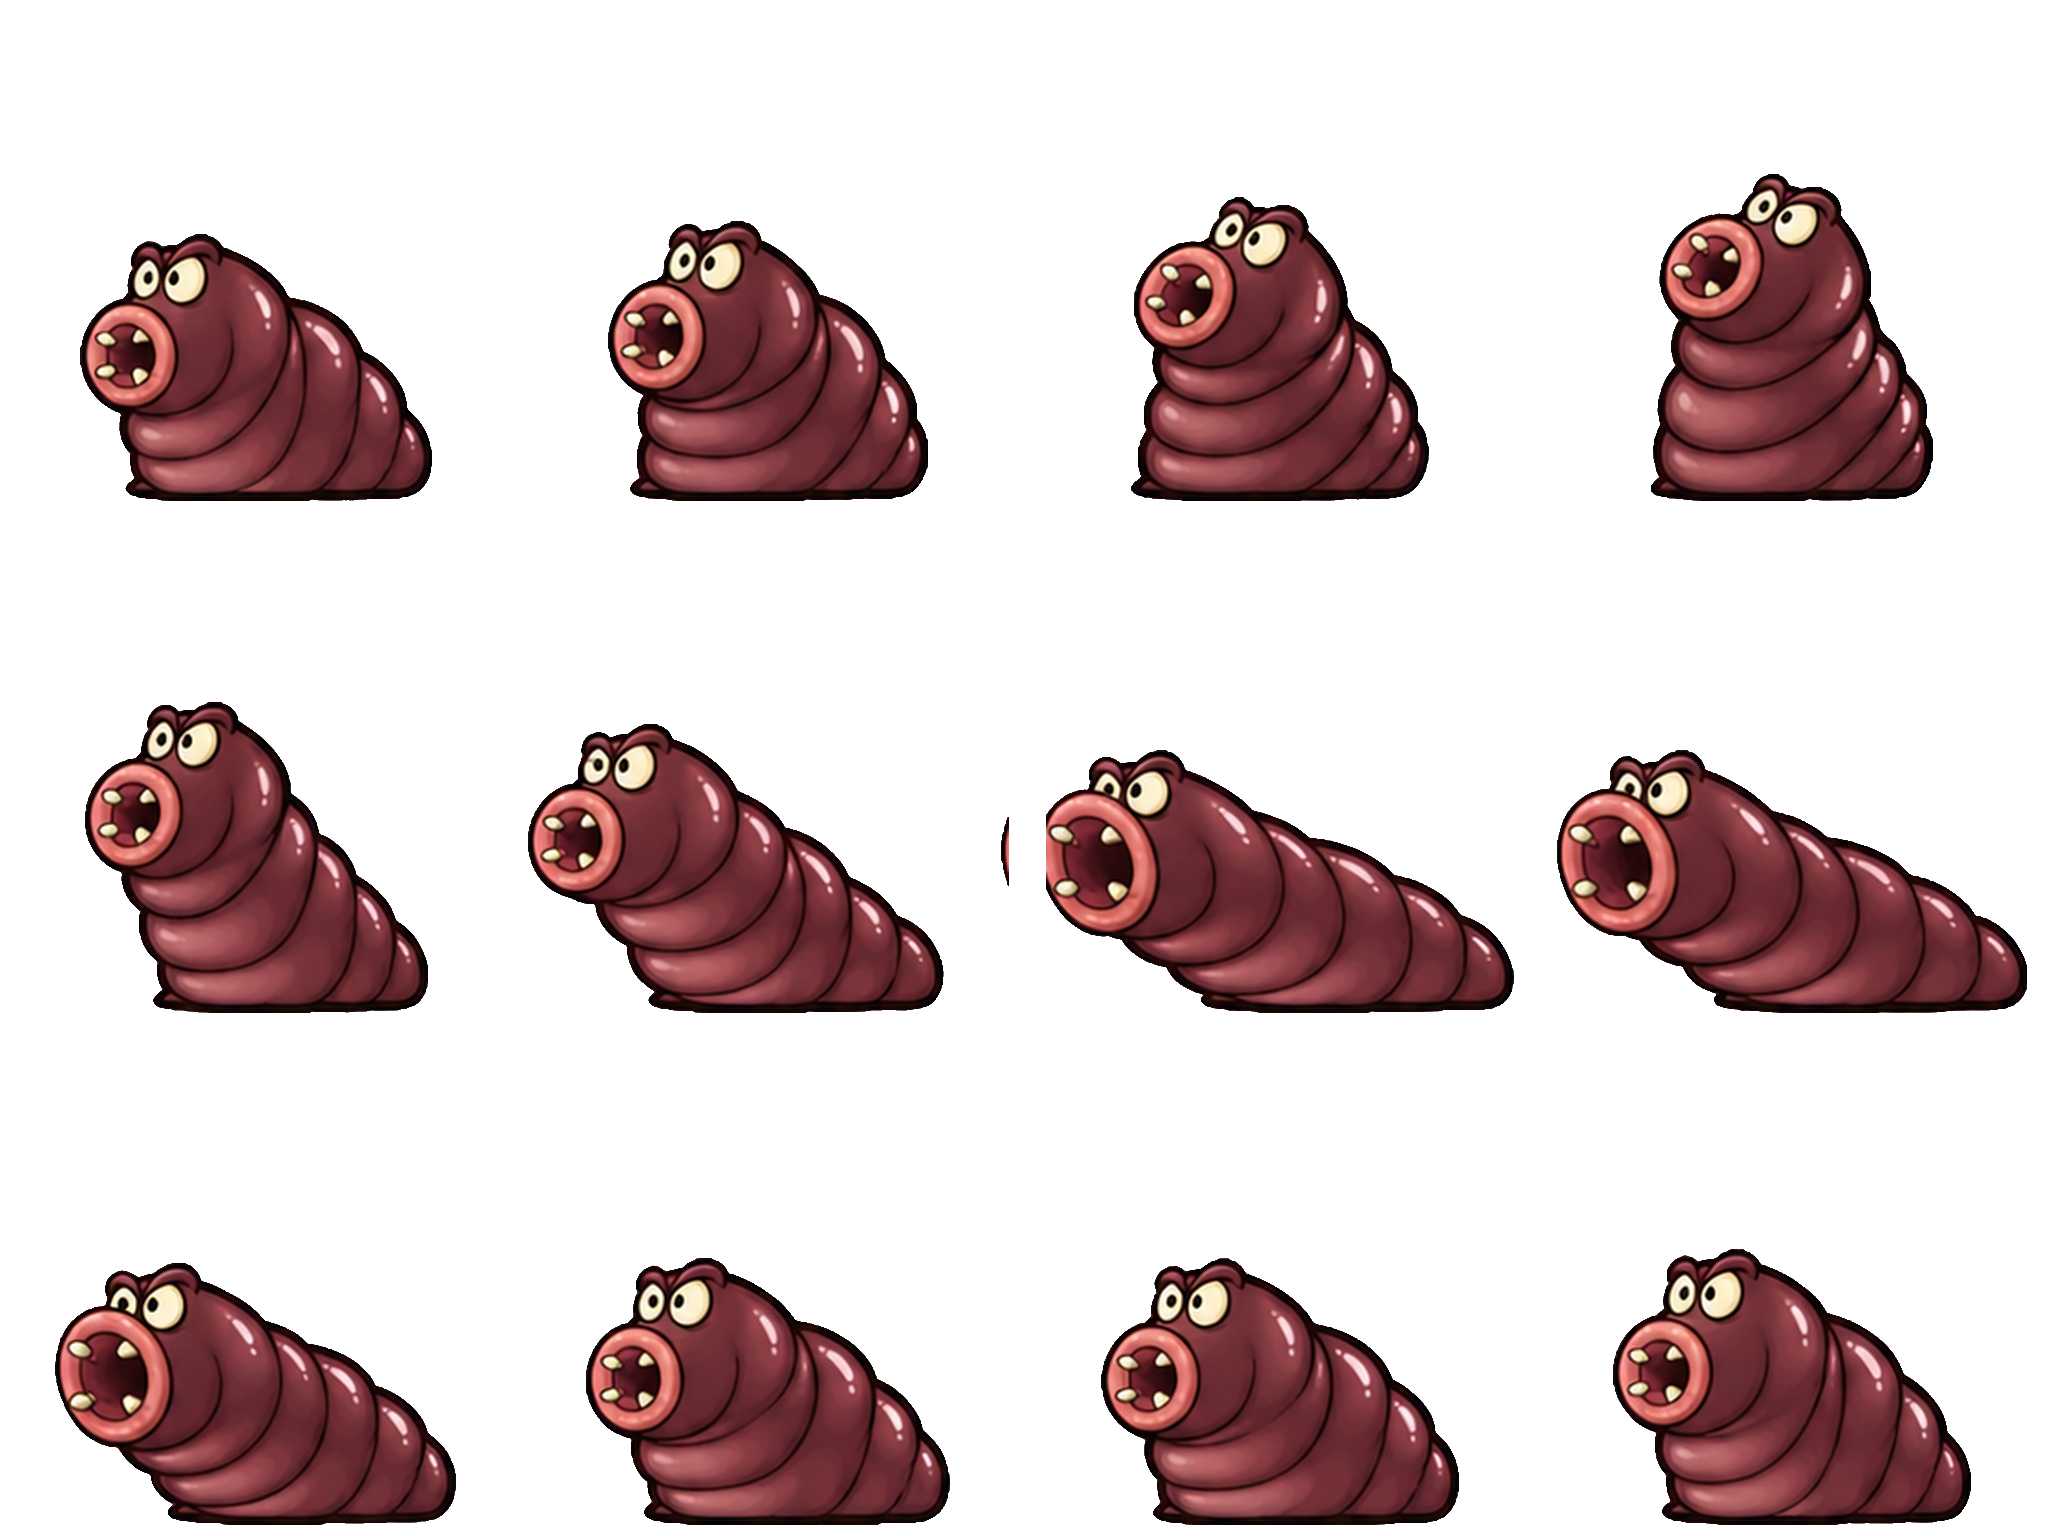
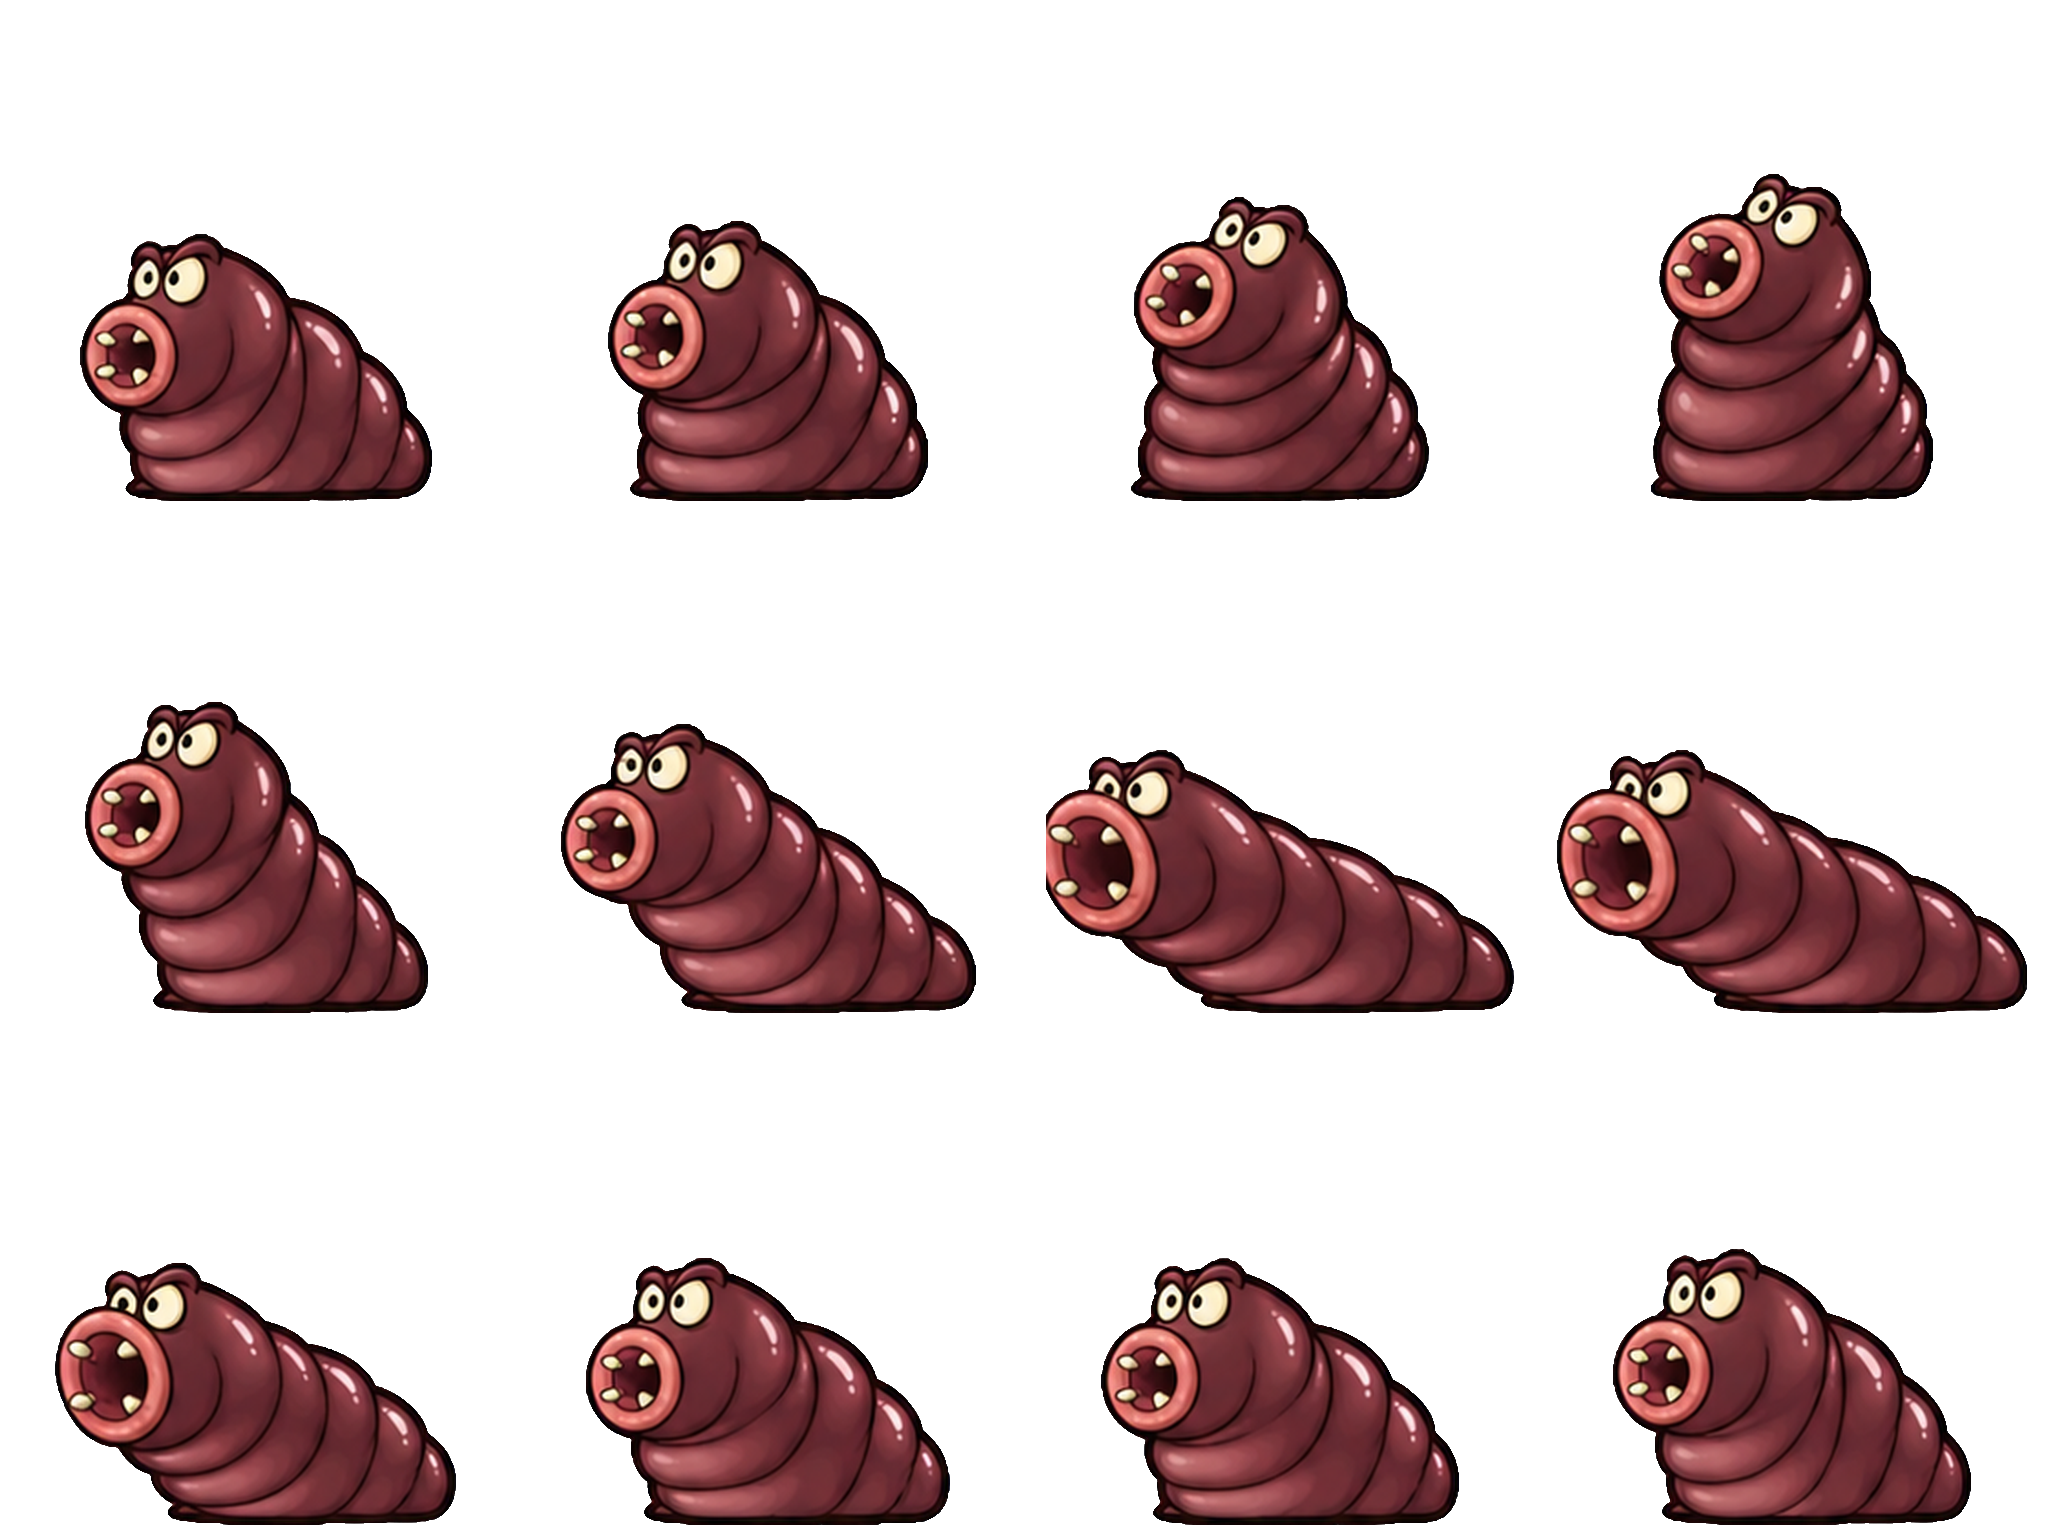
art: isolate leech special source cells cleanly

Changed region(s): [[0.25, 0.4688, 0.5, 0.6562]]

diff --git a/docs/ideas/sprites/monsters2/assemble.py b/docs/ideas/sprites/monsters2/assemble.py
@@ -21,7 +21,7 @@ for i in range(a.offset,a.offset+a.frames):
     x=i%4; y=i//4
     f=im.crop((round(x*im.width/4),round(y*im.height/a.source_rows),round((x+1)*im.width/4),round((y+1)*im.height/a.source_rows)))
     m=mask(np.array(f)); lab,n=ndimage.label(m)
-    sizes=np.bincount(lab.ravel()); valid=np.flatnonzero(sizes>=20); valid=valid[valid!=0]
+    sizes=np.bincount(lab.ravel()); valid=np.flatnonzero(sizes>=max(20, sizes[1:].max()*.015)); valid=valid[valid!=0]
     m=np.isin(lab,valid); yy,xx=np.where(m)
     box=(int(xx.min()),int(yy.min()),int(xx.max()+1),int(yy.max()+1)); boxes.append(box); poses.append(f.crop(box))
 rr=np.array(Image.open(ref).convert('RGBA'))[:512,:512,3]>=128
